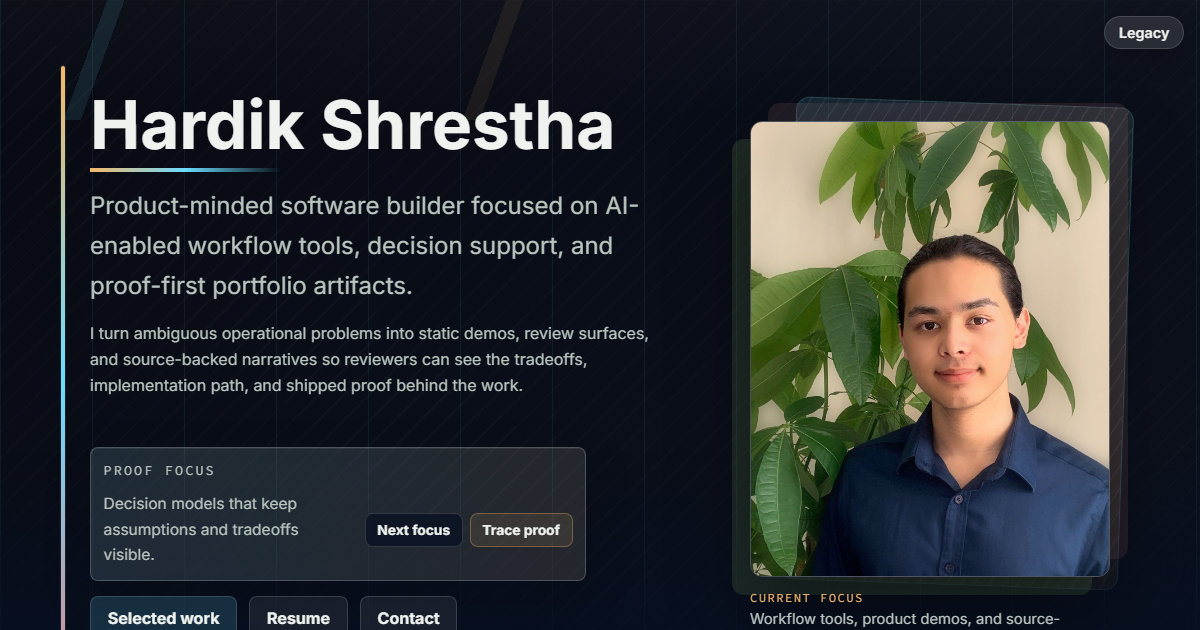
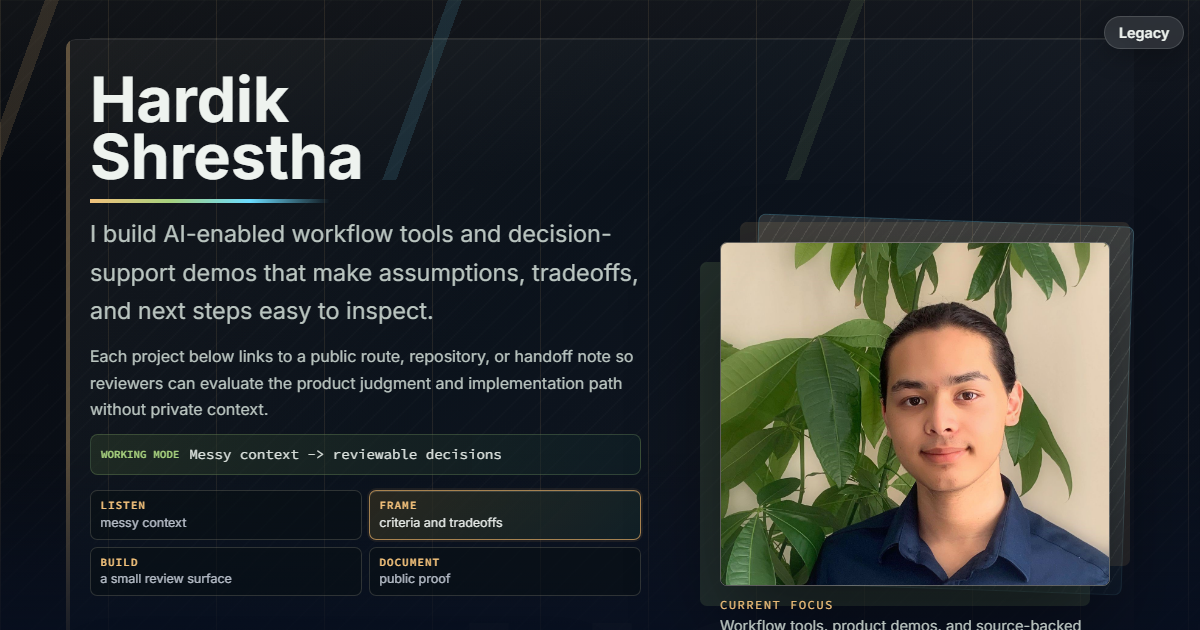
Finish recruiter trust surface

diff --git a/handoff/index.html b/handoff/index.html
@@ -119,6 +119,9 @@
         Turn 61 adds a small native typed working-mode signal to the hero. It keeps the static fallback text and reduced-motion behavior, avoids the old typed/canvas dependency stack, and does not change evidence JSON, routes, contact policy, selected-work content, or Legacy continuity.
       </p>
       <p class="section-note">
+        The final sprint recruiter-trust pass adds a public-only reviewer route to the contact section and refreshes the 1200x630 social preview from the current homepage. The contact path still uses selected work, resume, GitHub, and LinkedIn only; no raw email, form endpoint, scheduler, private link, or availability claim was added.
+      </p>
+      <p class="section-note">
         Recommendation: share `https://hardik-s.github.io/` for review, then change the site only for concrete feedback, public freshness drift, resume/profile updates, or newly verified public-safe evidence.
       </p>
     </section>
@@ -142,7 +145,7 @@
         </article>
         <article class="card">
           <h3>Nice polish</h3>
-          <p>Consider verified project screenshots or additional native interaction only if a reviewer says it would improve comprehension. Social preview, selected-work mobile rhythm, first-two-scroll narrative tightening, the Turn 52 visual shell, Turn 53 hero proof controls, Turn 54 visual provenance chips, Turn 55 builder through-line, Turn 56 freshness closure, above-fold warmth, Turn 57 proof-path anchors, Turn 59 first-viewport rhythm, Turn 60 reviewer paths, and Turn 61 typed-signal polish have already been handled.</p>
+          <p>Consider verified project screenshots or additional native interaction only if a reviewer says it would improve comprehension. Social preview, selected-work mobile rhythm, first-two-scroll narrative tightening, the Turn 52 visual shell, Turn 53 hero proof controls, Turn 54 visual provenance chips, Turn 55 builder through-line, Turn 56 freshness closure, above-fold warmth, Turn 57 proof-path anchors, Turn 59 first-viewport rhythm, Turn 60 reviewer paths, Turn 61 typed-signal polish, and the final recruiter-trust route have already been handled.</p>
         </article>
         <article class="card">
           <h3>Needs verified evidence</h3>

diff --git a/css/v2.css b/css/v2.css
@@ -1384,6 +1384,57 @@ h1 {
   color: rgba(238, 243, 239, 0.82);
 }
 
+.contact-review-route {
+  width: min(100%, 58rem);
+  display: grid;
+  gap: 0.68rem;
+  padding: 1rem;
+  border: 1px solid rgba(248, 235, 208, 0.18);
+  border-radius: 0.5rem;
+  background:
+    linear-gradient(135deg, rgba(242, 193, 123, 0.12), rgba(107, 220, 255, 0.06)),
+    rgba(7, 16, 15, 0.56);
+  box-shadow:
+    inset 0 1px 0 rgba(255, 255, 255, 0.07),
+    0 18px 42px rgba(0, 0, 0, 0.16);
+}
+
+.contact-review-route h3 {
+  max-width: 20ch;
+  margin: 0;
+  color: var(--text);
+  font-size: clamp(1.3rem, 2.6vw, 1.85rem);
+  line-height: 1.1;
+}
+
+.contact-review-route ol {
+  display: grid;
+  grid-template-columns: repeat(3, minmax(0, 1fr));
+  gap: 0.55rem;
+  margin: 0;
+  padding: 0;
+  list-style: none;
+}
+
+.contact-review-route li {
+  min-width: 0;
+  padding: 0.72rem;
+  border: 1px solid rgba(231, 237, 249, 0.14);
+  border-radius: 0.45rem;
+  color: rgba(231, 237, 249, 0.82);
+  background: rgba(8, 19, 30, 0.58);
+  line-height: 1.45;
+}
+
+.contact-review-route strong {
+  display: block;
+  margin-bottom: 0.18rem;
+  color: var(--accent-warm);
+  font-family: "Source Code Pro", ui-monospace, Menlo, Consolas, monospace;
+  font-size: 0.72rem;
+  text-transform: uppercase;
+}
+
 .contact-actions a {
   width: max-content;
   text-decoration: none;
@@ -1634,6 +1685,10 @@ button:focus-visible,
 
   .card-section {
     padding: 2.2rem 0;
+  }
+
+  .contact-review-route ol {
+    grid-template-columns: 1fr;
   }
 }
 

diff --git a/index.html b/index.html
@@ -183,6 +183,15 @@
         <a href="https://www.linkedin.com/in/hardik-shres/" target="_blank" rel="noopener noreferrer">LinkedIn</a>
       </div>
       <p class="contact-guidance">Best next step: mention the proof item that matches the role or project conversation.</p>
+      <aside class="contact-review-route" aria-labelledby="contact-route-title">
+        <p class="eyebrow">Reviewer route</p>
+        <h3 id="contact-route-title">Start from public proof, then choose the right profile link.</h3>
+        <ol>
+          <li><strong>Inspect work:</strong> open a flagship route or repository that matches the conversation.</li>
+          <li><strong>Check background:</strong> use the public resume for education, experience, and broader context.</li>
+          <li><strong>Follow up:</strong> use GitHub or LinkedIn with the matching proof item named in the note.</li>
+        </ol>
+      </aside>
       <p class="section-note">Legacy profile remains available through the top-right Legacy button for continuity.</p>
     </section>
 

diff --git a/docs/handoff.md b/docs/handoff.md
@@ -1,6 +1,6 @@
 # v2 Release Handoff
 
-Last updated: 2026-05-15
+Last updated: 2026-05-16
 
 ## Release-candidate scope
 
@@ -58,6 +58,7 @@ The design borrows portfolio patterns such as a personal first viewport, curated
 - The Turn 59 first-viewport rhythm pass is a CSS-only visual QA correction. It reduces hero height and spacing, hides the redundant proof-strip row now that method chips provide the direct proof path, and keeps the `Next focus` and `Trace proof` controls available.
 - The Turn 60 case-study path pass adds a compact reviewer path to each flagship work card. The path tells reviewers how to inspect the public route or repository, keeps the same four selected projects and media policy, and avoids new metrics, screenshots, customer claims, or production-status claims.
 - The Turn 61 native typed-signal pass restores a small amount of legacy-style motion without importing the old typed plugin or canvas stack. It changes only the hero signal layer and docs; evidence JSON, selected-work cards, media, routes, contact policy, and `/legacy/` remain unchanged.
+- The final sprint recruiter-trust pass adds one public-only reviewer route to the contact section: inspect a flagship public artifact, check the public resume, then follow up through GitHub or LinkedIn with the matching proof item named. It avoids a raw email address, form endpoint, scheduler, private link, or availability claim.
 
 ## Evidence policy
 
@@ -130,6 +131,7 @@ The v2 contact path is profile-first:
 - The 2026-05-16 case-study path pass verifies the four flagship links again, adds `caseStudy.reviewPath` guidance to the selected-work JSON, renders it as a compact reviewer sequence, and documents why no new media was promoted.
 - The 2026-05-16 native typed-signal pass keeps Turn 60's case-study baseline intact while adding one reduced-motion-aware hero motion cue. The cue should be evaluated as personality and scan rhythm, not as a new proof claim.
 - Recommendation: share `https://hardik-s.github.io/` for review. The Vercel alias is also healthy for this baseline, but GitHub Pages remains the canonical source-backed review URL. Do not change the site unless review feedback, public freshness drift, a resume/profile update, or newly verified public-safe project evidence appears.
+- The final sprint release pass refreshes the 1200x630 social preview after the typed signal and reviewer route are visible. The preview remains a screenshot of the public homepage, not a generated graphic or new claim surface.
 
 ## External review backlog
 
@@ -181,6 +183,7 @@ Expected redaction result: the full-repo scan may still report the documented le
 - Generated QA artifacts should not linger across turns. The Turn 58G baseline found no untracked `state/director-qa/` folder or server logs, so later screenshot-driven turns should create new evidence, inspect it, then either remove it before commit or commit it with a clear retention rationale.
 - The first-viewport rhythm pass should be treated as the final broad visual polish unless a reviewer identifies a concrete clipping, density, or hierarchy defect.
 - The selected-work case-study path should be treated as review guidance, not new evidence. Future workers should not add screenshots, metrics, or stronger project status language unless a public-safe source is documented first.
+- Recruiter trust and share surface should be treated as closed unless a reviewer reports confusion. The contact route now explains how to use selected work, resume, GitHub, and LinkedIn together, and the preview image reflects the current homepage.
 - The typed-signal layer should stay small. Do not add a tour overlay, imported animation library, canvas effect, or new phrase set unless a reviewer reports that the current first viewport still feels static or unclear.
 - GitHub Pages may lag immediately after future pushes; recheck `/`, `/legacy/`, `/handoff/`, and cache-busted v2 assets before external review.
 - The legacy page intentionally contains older content and should be evaluated as continuity, not as the v2 positioning surface.

diff --git a/README.md b/README.md
@@ -58,8 +58,9 @@ This repository is the current home for Hardik's personal website (v2) with lega
 - The Turn 59 screenshot-driven rhythm pass is CSS-only. It compacts the hero frame, portrait, primary actions, proof-focus panel, and section rail so the first viewport shows the name, portrait, actions, proof path, and fixed `Legacy` affordance with less control-panel weight. The rejected alternatives were new copy, new media, a route change, or another interaction layer.
 - The Turn 60 case-study path pass adds a reviewer-path sequence to each flagship card. This makes selected work read more like case studies while preserving the existing four-project set, PMO-only screenshot boundary, public source links, and `/legacy/` behavior. The rejected alternatives were adding new project screenshots, changing the project order, or claiming outcomes that are not source-verified.
 - The Turn 61 native typed-signal pass adds a small hero working-mode line that cycles through existing evidence-safe phrases with native JavaScript. The static text remains visible without JavaScript, the animation stops for reduced-motion users, and the rejected alternatives were importing the old typed library, adding a canvas effect, or creating new project claims.
+- The final sprint recruiter-trust pass adds a compact reviewer route in the contact section: inspect a flagship public artifact, check the public resume, then follow up through GitHub or LinkedIn with the matching proof item named. It intentionally avoids a raw email address, form endpoint, scheduler, availability claim, or new private link.
 - The release-polish pass adds public-safe title, description, canonical, Open Graph, and Twitter metadata that restate the already-visible v2 positioning without adding new claims.
-- The Turn 46 recruiter-share pass replaces the stale legacy-era `images/website-preview.png` with a 1200x630 capture of the current v2 homepage. The preview is a screenshot of committed public page state with Hardik's name, portrait, proof-focus controls, and the top-right `Legacy` affordance visible; the rejected alternative was a separate generated graphic because that would add a second art direction and require a new public-safety review.
+- The final sprint recruiter-share pass refreshes `images/website-preview.png` from the current v2 homepage after the hero typed signal and contact reviewer route were in place. The preview remains a screenshot of committed public page state with Hardik's name, portrait, proof-focus controls, and the top-right `Legacy` affordance visible; the rejected alternative was a separate generated graphic because that would add a second art direction and require a new public-safety review.
 - The hero portrait declares intrinsic dimensions and is preloaded as the first-viewport image. This is a static performance and layout-stability safeguard, not a new visual asset or dependency.
 - The first-viewport repair keeps the existing portrait-led structure but compacts the mobile proof-focus control and wraps the section rail into stable grid rows. The rejected alternative was another hero rewrite; screenshot QA showed the current identity, portrait, and actions were already working, while the remaining issue was control density and clipped rail affordances.
 - Skip-link vertical positions use explicit classes instead of anchor-order selectors so future additions near the top of the body do not silently break keyboard focus placement.

diff --git a/docs/public-safety.md b/docs/public-safety.md
@@ -15,6 +15,7 @@
   - This keeps the public page useful for hiring review while avoiding a new direct-contact exposure decision.
 - No new direct email recipient was added to v2 contact links in this increment.
 - Turn 32 metadata uses only public positioning already visible on the homepage: product-minded software builder, AI-enabled workflow tools, decision-support demos, and public source proof. It does not add employers, metrics, private project status, or new contact channels.
+- The final sprint recruiter-trust pass keeps the same profile-first boundary while adding a reviewer route: inspect a flagship public artifact, check the public resume, then follow up through GitHub or LinkedIn with the matching proof item named. It does not add a raw email address, form endpoint, scheduler, private profile link, or availability claim.
 
 ## Legacy continuity
 
@@ -32,6 +33,7 @@
 - Legacy contact literals in `legacy/index.html` remain allowed only as documented historical content and must stay confined to the legacy route.
 - Open Graph and Twitter image metadata should continue to point only at committed public assets or verified public URLs.
 - Turn 46 updates `images/website-preview.png` to a 1200x630 capture of the current committed v2 homepage. This is allowed because it contains only already-public homepage content, the existing portrait asset, profile-safe positioning copy, and the visible `Legacy` route affordance.
+- The final sprint refreshes `images/website-preview.png` from the current homepage after the typed signal and contact reviewer route were present. This remains allowed under the same public-content rule and does not introduce a synthetic graphic or new claim surface.
 - Do not replace the social preview with a synthetic or externally sourced graphic unless the source, ownership, visible text, dimensions, and publication rationale are documented here first.
 - Selected-work visuals are generated from public JSON labels and cues. Do not replace them with screenshots until the capture source, visible data, image size, and reuse rationale are documented in `docs/evidence-inventory.md`.
 - Turn 44 permits one exception: `images/work-pmo-decision-brief-builder.png` is allowed because it was captured from a public fixture-only PMO demo route, contains no private records or contact details, and has source URL, capture date, dimensions, file size, alt text, and safety rationale recorded in `content/site-content.json` and `docs/evidence-inventory.md`.

diff --git a/docs/review-backlog.md b/docs/review-backlog.md
@@ -45,6 +45,7 @@ Decision rationale:
 - First-viewport rhythm is no longer an open broad-polish item unless a reviewer reports a concrete issue: Turn 59 reduces the hero control density and brings the section rail into the desktop first viewport while preserving the name, portrait, primary actions, proof path, and fixed `Legacy` affordance.
 - Flagship case-study framing is no longer an open broad-polish item unless a reviewer says the selected-work section is still hard to evaluate: Turn 60 adds reviewer-path sequences to the existing four flagship cards without changing project order, media policy, evidence claims, routes, or `Legacy` continuity.
 - Native hero personality is no longer an open broad-polish item unless a reviewer says the first viewport still feels static: Turn 61 adds a reduced-motion-safe typed working-mode signal using existing phrases, without importing libraries, adding canvas, changing evidence JSON, or touching `/legacy/`.
+- Recruiter trust and share surface are no longer open broad-polish items unless a reviewer reports confusion: the final sprint contact route explains how to use selected work, resume, GitHub, and LinkedIn together, and the social preview was regenerated from the current homepage state.
 - Replace or augment structured proof maps with real project screenshots only after source URL, privacy review, image size, and reuse rationale are documented. Turn 49 re-audited the current non-PMO flagships and found no safe media upgrade: BioScript remains too housing-specific for a committed screenshot, and the two repo-only projects have no public workflow screen beyond GitHub chrome.
 - Add more native interaction only if it improves review comprehension without adding framework weight or reducing keyboard access. The active section rail, Turn 45 proof journey, Turn 53 hero proof controls, and Turn 57 proof-path anchors already cover this category; future interaction work should wait for reviewer feedback.
 - Refresh resume/profile links after the user confirms a newer public artifact.
